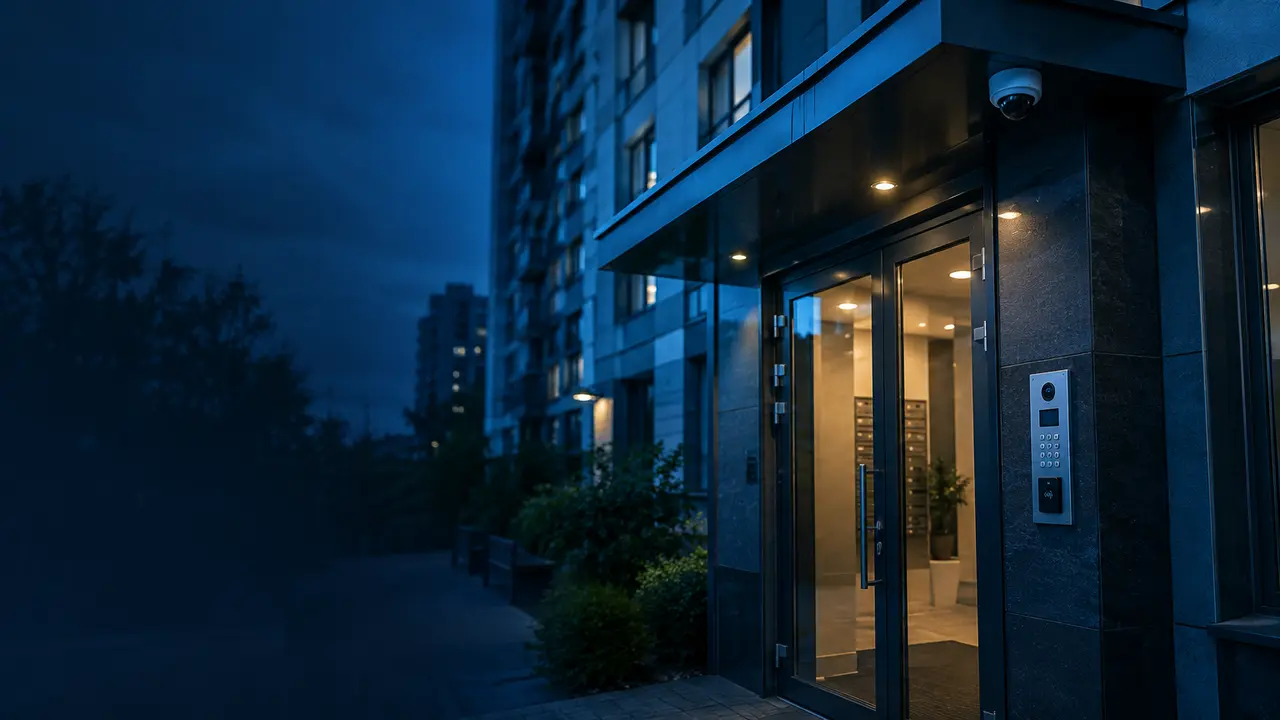
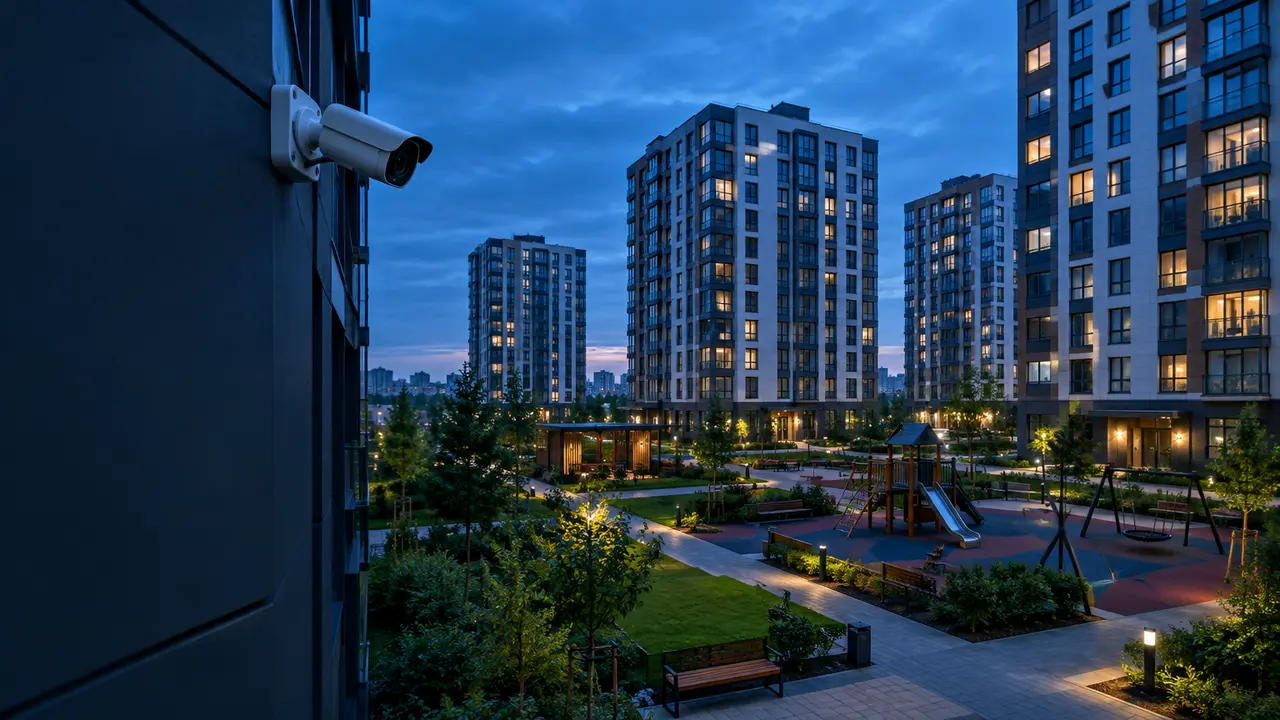
Страница «Для жилых комплексов»: фон — двор ЖК с камерой на углу дома (вариант 1)
Claude-Session: https://claude.ai/code/session_011rfQ84zw86sxvMcCoCRTT1

diff --git a/src/lib/images.ts b/src/lib/images.ts
@@ -33,13 +33,13 @@ export const pics = {
     height: 896,
   },
   home: { src: home, webp: `${home640} 640w, ${home1280} 1280w`, width: 1280, height: 896 },
-  // Сгенерированное фото входа в подъезд: на телефоне держим в кадре домофон и камеру справа
+  // Сгенерированное фото двора ЖК с камерой на углу дома: на телефоне держим камеру в кадре
   residential: {
     src: residential,
     webp: `${residential640} 640w, ${residential1280} 1280w`,
     width: 1280,
     height: 720,
-    pos: "80% 50%",
+    pos: "22% 50%",
   },
   maintenance: {
     src: maintenance,
